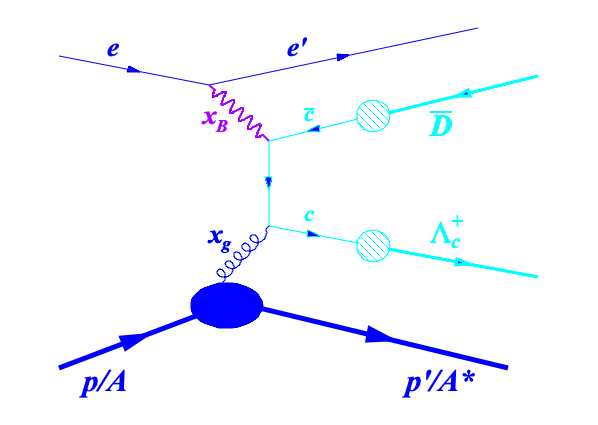
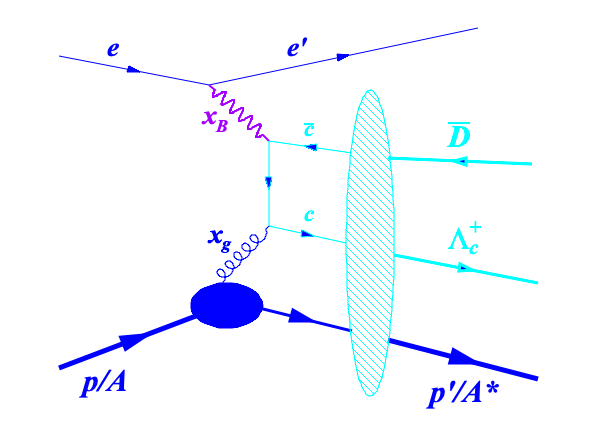
Updated the diagram to combine hadronization block

Changed region(s): [[0.4515, 0.1529, 0.903, 0.9788], [0.602, 0.2141, 0.6321, 0.2447]]

diff --git a/macro/hfLcDIS.C b/macro/hfLcDIS.C
@@ -28,31 +28,32 @@ void hfLcDIS()
    // drawArrowLine(42, 23, 85, 12);
    // drawText(68, 6, "P'", 32, 0.08, 0, kBlack);
    drawArrowLine(10, 10, 35, 20, 0.05, 30, 5, 1, kBlack);
-   drawArrowLine(42, 21, 85, 10, 0.05, 30, 5, 1, kBlack);
+   drawArrowLine(42, 21, 59, 16.5, 0.05, 30, 3, 1, kBlack);
+   drawArrowLine(65, 15, 90, 8, 0.05, 30, 5, 1, kBlack);
    drawText(14, 6, "p/A", 32, 0.08, 0, kBlack);
-   drawText(68, 6, "p'/A*", 32, 0.08, 0, kBlack);
+   drawText(72, 4, "p'/A*", 32, 0.08, 0, kBlack);
 
    // charm quarks
    drawArrowLine(45, 50, 45, 35, 0.03, 30, 1, 1, kBlue);
-   drawArrowLine(60, 54, 45, 50, 0.03, 30, 1, 1, kBlue);
-   drawArrowLine(45, 35, 60, 32, 0.03, 30, 1, 1, kBlue);
-   drawText(51, 53.5, "#bar{c}", 32, 0.06, 0, kBlue);
+   drawArrowLine(59, 48, 45, 50, 0.03, 30, 1, 1, kBlue);
+   drawArrowLine(45, 35, 58, 32, 0.03, 30, 1, 1, kBlue);
+   drawText(51, 51, "#bar{c}", 32, 0.06, 0, kBlue);
    drawText(51, 36, "c", 32, 0.06, 0, kBlue);
    drawGluon(35, 24, 45, 35, 1, 1, kRed+1);
    drawText(35, 32, "x_{g}", 32, 0.07, 0, kRed);
 
-   drawArrowLine(90, 61.5, 65, 55, 0.03, 30, 3, 1, kBlue);
+   drawArrowLine(89, 46, 65, 47, 0.03, 30, 3, 1, kBlue);
    //   drawArrowLine(90, 61, 65, 54.5, 0.03, 30, 1, 1, kBlue);
-   drawText(72, 51, "#bar{D}", 32, 0.08, 0, kBlue);
-   drawEllipse(62.5, 54.5, 2.8, 2.8, 0., 360., 0., 3005, kBlue, 1, 1, kBlue);
+   drawText(75, 49, "#bar{D}", 32, 0.08, 0, kBlue);
+   //   drawEllipse(62.5, 54.5, 2.8, 2.8, 0., 360., 0., 3005, kBlue, 1, 1, kBlue);
    
    //   drawArrowLine(65, 30, 90, 25, 0.03, 30, 3, 1, kBlue);
-   drawArrowLine(65, 31, 90, 26., 0.03, 30, 3, 1, kBlue);
-   drawText(72, 32., "#Lambda_{c}^{+}", 32, 0.08, 0, kBlue);
-   drawEllipse(62.5, 31.5, 2.8, 2.8, 0., 360., 0., 3005, kBlue, 1, 1, kBlue);
+   drawArrowLine(66, 30, 90, 25., 0.03, 30, 3, 1, kBlue);
+   drawText(75, 31., "#Lambda_{c}^{+}", 32, 0.08, 0, kBlue);
    
    drawEllipse(38, 21, 6, 4, 0., 360., 0., 1000, 1);
 
+   drawEllipse(62, 32, 4, 27, 0., 360., 0., 3005, kBlue, 1, 1, kBlue);
    
    c1->Update();
    c1->SaveAs("../fig/Feynman_hfLcDIS.pdf");
